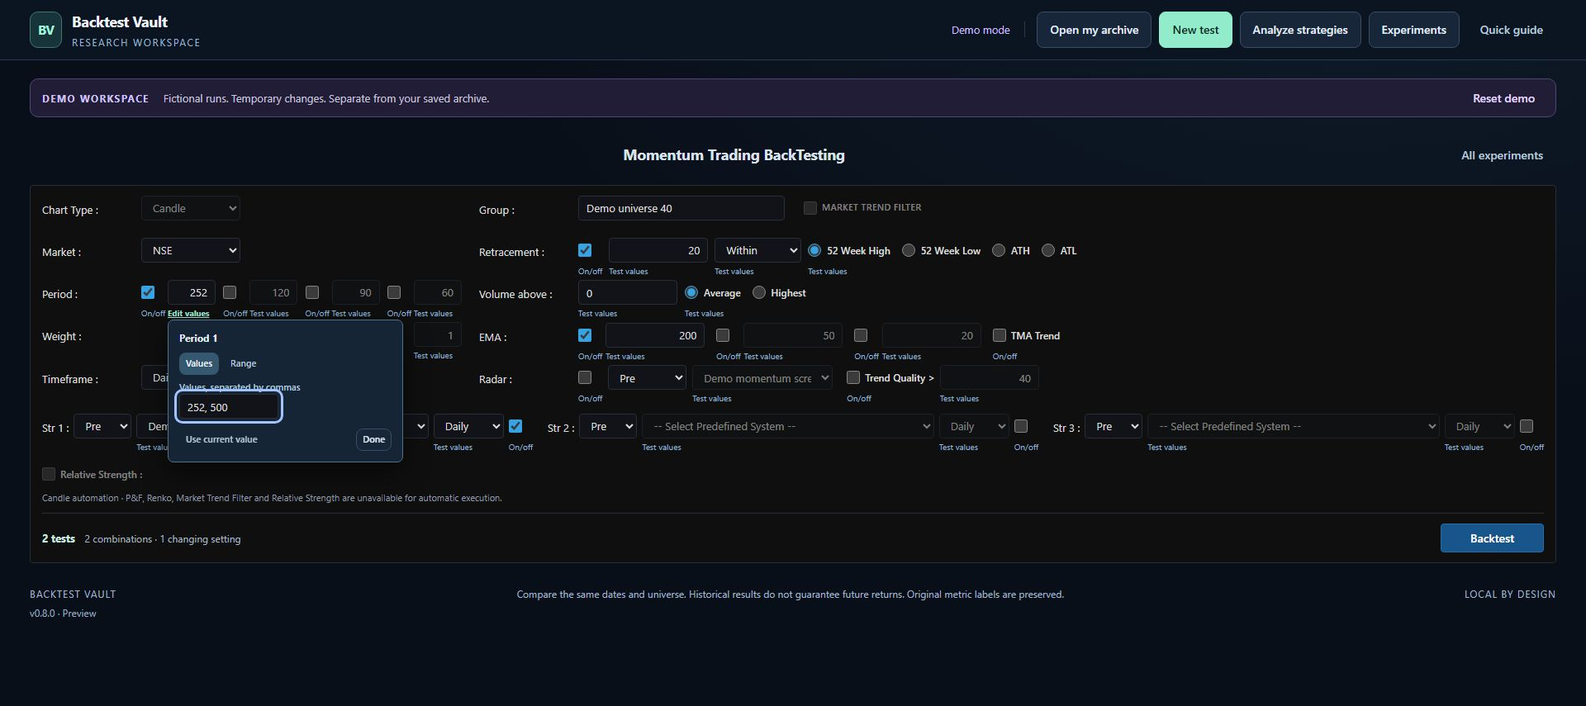
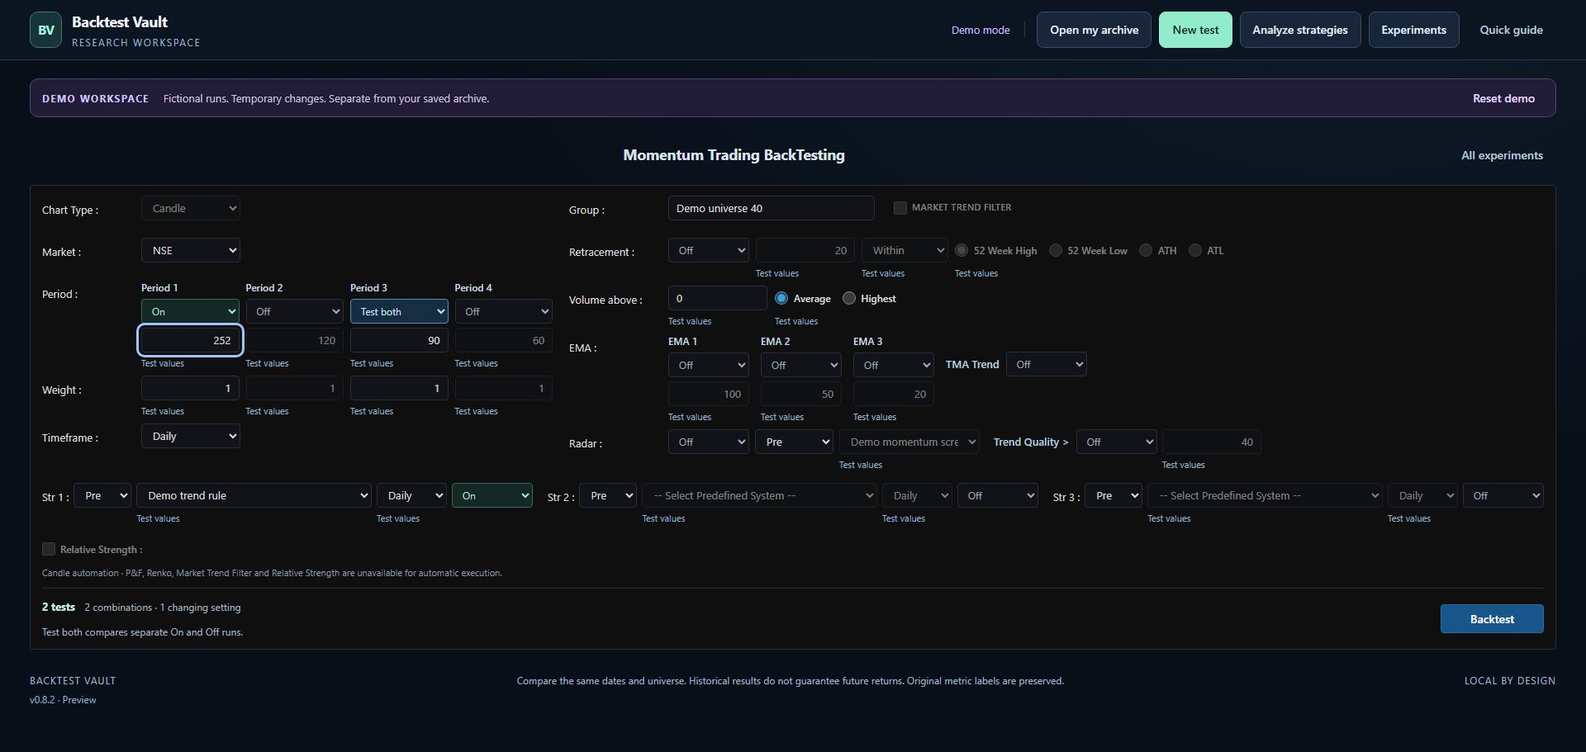
Simplify setup states with Off On and Test both choices

diff --git a/dist/experiments-ui.js b/dist/experiments-ui.js
@@ -171,25 +171,26 @@ async function render({target,store,runs,onOpen,onExit,onNotice,table,download,b
   return {id:'preview',name:state.name,baseline:S.configToBaseline(state.config,state.template,{id:'setup-preview',name:state.name,demo:store.demo}),dimensions:state.dimensions.map(d=>({key:d.key,values:d.values})),mode:state.mode,budget:state.budget,objective:state.objective,ceiling:state.ceiling,minTrades:state.minTrades,seed:state.seed,timeoutMinutes:state.timeout};
  }
 
+ const setupEnabled=(state,key)=>!key||!!state.config[key]||state.dimensions.some(d=>d.key===key&&Array.isArray(d.values)&&d.values.includes(true));
  function workbenchChanged(state){
   for(const item of state.controls||[]){
    if(!item.control.isConnected)continue;
    const f=item.field,inspect=f.key.endsWith('.chart')&&f.options?.length>1;
-   item.control.disabled=!!(f.disabled&&!inspect)||!!(f.enabledBy&&!state.config[f.enabledBy]);
+   item.control.disabled=!!(f.disabled&&!inspect)||!setupEnabled(state,f.enabledBy);
   }
   for(const update of state.countUpdates||[])update();
  }
 
  function variationEditor(state,field){
-  const candidate=state.catalog.find(f=>f.key===field.key);if(!candidate||candidate.type==='enum'&&!candidate.options.length)return null;
+  const candidate=state.catalog.find(f=>f.key===field.key);if(!candidate||candidate.type==='boolean'||candidate.type==='enum'&&!candidate.options.length)return null;
   const holder=el('div',undefined,'source-variation'),toggle=button('Test values',()=>{},'source-test-values'),editor=el('div',undefined,'source-values-editor');holder.dataset.variationFor=field.key;editor.dataset.editorFor=field.key;editor.hidden=state.editorOpen!==field.key;holder.append(toggle,editor);
   const dimension=()=>state.dimensions.find(d=>d.key===field.key);
-  const summary=()=>{const d=dimension();toggle.textContent=d?'Edit values':candidate.type==='boolean'?'On/off':'Test values';toggle.setAttribute('aria-label','Test values for '+field.label);toggle.classList.toggle('is-active',!!d);toggle.setAttribute('aria-expanded',String(!editor.hidden));};
+  const summary=()=>{const d=dimension();toggle.textContent=d?'Edit values':'Test values';toggle.setAttribute('aria-label','Test values for '+field.label);toggle.classList.toggle('is-active',!!d);toggle.setAttribute('aria-expanded',String(!editor.hidden));};
   function draw(){
    const d=dimension();editor.replaceChildren();if(!d)return;editor.append(el('strong',field.label));
    const current=state.config[field.key];
-   if(candidate.type==='enum'||candidate.type==='boolean'){
-    const choices=candidate.type==='boolean'?[{value:true,label:'On'},{value:false,label:'Off'}]:candidate.options;
+   if(candidate.type==='enum'){
+    const choices=candidate.options;
     const list=el('div',undefined,'source-value-choices');
     for(const option of choices){const checkbox=input('','checkbox');checkbox.checked=Array.isArray(d.values)&&d.values.includes(option.value);checkbox.onchange=()=>{const values=Array.isArray(d.values)?d.values:[];d.values=checkbox.checked?[...values,option.value]:values.filter(v=>v!==option.value);workbenchChanged(state);};list.append(label(option.label,checkbox));}editor.append(list);
    }else{
@@ -205,7 +206,7 @@ async function render({target,store,runs,onOpen,onExit,onNotice,table,download,b
    const actions=el('div',undefined,'source-value-actions');actions.append(button('Use current value',()=>{state.dimensions=state.dimensions.filter(d=>d.key!==field.key);state.editorOpen=null;editor.hidden=true;summary();workbenchChanged(state);},'quiet'),button('Done',()=>{state.editorOpen=null;editor.hidden=true;summary();workbenchChanged(state);},'secondary'));editor.append(actions);summary();
   }
   toggle.onclick=()=>{
-   if(!dimension()){if(state.dimensions.length>=6){notice.textContent='Use at most six changing settings in one test batch.';return;}state.dimensions.push({key:field.key,values:candidate.type==='boolean'||candidate.type==='enum'?[state.config[field.key]]:String(state.config[field.key]),editorMode:'values'});}
+   if(!dimension()){if(state.dimensions.length>=6){notice.textContent='Use at most six changing settings in one test batch.';return;}state.dimensions.push({key:field.key,values:candidate.type==='enum'?[state.config[field.key]]:String(state.config[field.key]),editorMode:'values'});}
    const open=editor.hidden;for(const n of content.querySelectorAll('.source-values-editor'))n.hidden=true;state.editorOpen=open?field.key:null;editor.hidden=!open;draw();summary();workbenchChanged(state);
   };draw();summary();return holder;
  }
@@ -215,19 +216,33 @@ async function render({target,store,runs,onOpen,onExit,onNotice,table,download,b
   const caption=field.label.replace(/^Use /,'');if(showLabel&&field.type!=='boolean')wrap.append(el('span',caption,'source-control-label'));
   const line=el('div',undefined,'source-control-line');wrap.append(line);
   if(radios){
-   const options=el('div',undefined,'source-radios');for(const option of field.options||[]){const n=input(option.value,'radio');n.name='setup-'+key;n.checked=String(value)===String(option.value);n.disabled=!!field.disabled||!!option.disabled||!!(field.enabledBy&&!state.config[field.enabledBy]);n.dataset.setupField=key;n.setAttribute('aria-label',caption+' · '+option.label);n.onchange=()=>{if(n.checked){state.config[key]=n.value;workbenchChanged(state);}};state.controls.push({field,control:n});options.append(label(option.label,n));}line.append(options);
+   const options=el('div',undefined,'source-radios');for(const option of field.options||[]){const n=input(option.value,'radio');n.name='setup-'+key;n.checked=String(value)===String(option.value);n.disabled=!!field.disabled||!!option.disabled||!setupEnabled(state,field.enabledBy);n.dataset.setupField=key;n.setAttribute('aria-label',caption+' · '+option.label);n.onchange=()=>{if(n.checked){state.config[key]=n.value;workbenchChanged(state);}};state.controls.push({field,control:n});options.append(label(option.label,n));}line.append(options);
   }else{
    let control,unavailable=false;
-   if(field.type==='boolean'){control=input('','checkbox');control.checked=!!value;}
+   const stateChoice=field.type==='boolean'&&!field.disabled;
+   const variableState=stateChoice&&variation&&state.catalog.some(f=>f.key===key&&f.type==='boolean');
+   const selectedState=()=>state.dimensions.some(d=>d.key===key&&Array.isArray(d.values)&&d.values.includes(true)&&d.values.includes(false))?'both':String(!!state.config[key]);
+   if(stateChoice){control=select([['false','Off'],['true','On'],...(variableState?[['both','Test both']]:[])]);control.classList.add('source-state-select');control.value=selectedState();control.dataset.mode=control.value;}
+   else if(field.type==='boolean'){control=input('','checkbox');control.checked=!!value;}
    else if(field.type==='select'){
     const options=field.options||[];control=select(options.map(o=>[String(o.value),o.label||String(o.value)]));options.forEach((o,i)=>control.options[i].disabled=!!o.disabled);
     if(!options.length){const empty=el('option','No choices available');empty.value='';empty.disabled=true;control.append(empty);}
     if(!options.some(o=>String(o.value)===String(value))&&String(value??'')){const missing=el('option',String(value)+' · unavailable');missing.value=String(value);missing.disabled=true;control.append(missing);unavailable=true;}control.value=String(value??'');
    }else{control=input(value??'',field.type==='number'?'number':field.type==='date'?'date':'text');if(field.min!==undefined)control.min=field.min;if(field.max!==undefined)control.max=field.max;if(field.type==='number')control.step=field.integer?'1':'any';}
-   control.dataset.setupField=key;control.setAttribute('aria-label',caption);control.title=field.reason||field.help||caption;if(key==='momentum.group')control.placeholder='Search Group';control.required=!field.disabled&&field.type!=='boolean';const inspectChart=key.endsWith('.chart')&&field.options?.length>1;control.disabled=!!(field.disabled&&!inspectChart)||!!(field.enabledBy&&!state.config[field.enabledBy]);
-   if(field.type==='boolean'){const l=label(text,control);l.className='source-check';line.append(l);}else line.append(control);
-   if(unavailable){wrap.classList.add('setup-unavailable');control.setAttribute('aria-invalid','true');line.title='This choice is no longer available. Select another option.';if(field.rule&&!field.options?.length)wrap.append(button('Clear unavailable choice',()=>{state.config[key]='';if(field.enabledBy)state.config[field.enabledBy]=false;setupPage();},'quiet'));}
-   const update=()=>{state.config[key]=control.type==='checkbox'?control.checked:control.value;workbenchChanged(state);};
+   control.dataset.setupField=key;control.setAttribute('aria-label',caption);control.title=field.reason||field.help||(variableState?caption+': On uses it, Off skips it, Test both compares separate On and Off runs.':caption);if(key==='momentum.group')control.placeholder='Search Group';control.required=!field.disabled&&field.type!=='boolean';const inspectChart=key.endsWith('.chart')&&field.options?.length>1;control.disabled=!!(field.disabled&&!inspectChart)||!setupEnabled(state,field.enabledBy);
+   if(field.type==='boolean'&&(!stateChoice||text)){const l=label(text,control);l.className=stateChoice?'source-state-label':'source-check';line.append(l);}else line.append(control);
+   if(unavailable){wrap.classList.add('setup-unavailable');control.setAttribute('aria-invalid','true');line.title='This choice is no longer available. Select another option.';if(field.rule&&!field.options?.length)wrap.append(button('Clear unavailable choice',()=>{state.config[key]='';if(field.enabledBy)state.config[field.enabledBy]=false;state.dimensions=state.dimensions.filter(d=>d.key!==key&&d.key!==field.enabledBy);setupPage();},'quiet'));}
+   const update=()=>{
+    if(stateChoice){
+     if(control.value==='both'){
+      if(!variableState)return;
+      if(!state.dimensions.some(d=>d.key===key)){if(state.dimensions.length>=6){notice.textContent='Use at most six changing settings in one test batch.';control.value=selectedState();return;}state.dimensions.push({key,values:[true,false]});}
+      else state.dimensions.find(d=>d.key===key).values=[true,false];
+     }else{state.config[key]=control.value==='true';state.dimensions=state.dimensions.filter(d=>d.key!==key);}
+     control.dataset.mode=control.value;
+    }else state.config[key]=control.type==='checkbox'?control.checked:control.value;
+    workbenchChanged(state);
+   };
    control.addEventListener('input',update);control.addEventListener('change',()=>{update();if(field.refreshOnChange&&extension)void action(()=>refreshSetupChoices({[field.stage]:{[field.index]:control.value}}));});state.controls.push({field,control});
   }
   if(field.disabled)wrap.classList.add('source-fixed');if(variation){const editor=variationEditor(state,field);if(editor)wrap.append(editor);}return wrap;
@@ -240,17 +255,17 @@ async function render({target,store,runs,onOpen,onExit,onNotice,table,download,b
   const field=(key,opts)=>sourceField(state,'momentum.'+key,opts);
   const row=(title,children,cls='')=>{const n=el('div',undefined,'source-row '+cls);n.append(el('span',title,'source-row-label'));const values=el('div',undefined,'source-row-controls');values.append(...children);n.append(values);return n;};
   left.append(row('Chart Type :',[field('chart',{variation:false})]),row('Market :',[field('market',{variation:false})]));
-  const periods=[],weights=[];for(let i=1;i<=4;i++){const pair=el('div',undefined,'source-period-pair');pair.append(field('period.'+i+'.enabled'),field('period.'+i));periods.push(pair);weights.push(field('period.'+i+'.weight'));}
+  const periods=[],weights=[];for(let i=1;i<=4;i++){const pair=el('div',undefined,'source-period-pair');pair.append(el('span','Period '+i,'source-pair-heading'),field('period.'+i+'.enabled'),field('period.'+i));periods.push(pair);weights.push(field('period.'+i+'.weight'));}
   left.append(row('Period :',periods,'source-period-row'),row('Weight :',weights,'source-weight-row'),row('Timeframe :',[field('timeframe',{variation:false})]));
   right.append(row('Group :',[field('group',{variation:false}),field('market-filter',{text:'MARKET TREND FILTER',variation:false})],'source-group-row'));
   right.append(row('Retracement :',[field('retracement.enabled'),field('retracement'),field('retracement.mode'),field('retracement.reference',{radios:true})],'source-retracement-row'));
   right.append(row('Volume above :',[field('volume'),field('volume.reference',{radios:true})],'source-volume-row'));
-  const emas=[];for(let i=1;i<=3;i++){const pair=el('div',undefined,'source-period-pair');pair.append(field('ema.'+i+'.enabled'),field('ema.'+i));emas.push(pair);}emas.push(field('tma',{text:'TMA Trend'}));right.append(row('EMA :',emas,'source-ema-row'));
+  const emas=[];for(let i=1;i<=3;i++){const pair=el('div',undefined,'source-period-pair');pair.append(el('span','EMA '+i,'source-pair-heading'),field('ema.'+i+'.enabled'),field('ema.'+i));emas.push(pair);}emas.push(field('tma',{text:'TMA Trend'}));right.append(row('EMA :',emas,'source-ema-row'));
   const quality=el('div',undefined,'source-quality');quality.append(field('trend-quality.enabled',{text:'Trend Quality >'}),field('trend-quality'));right.append(row('Radar :',[field('radar.enabled'),field('radar.source',{variation:false}),field('radar.rule'),quality],'source-radar-row'));
   const strategies=el('div',undefined,'source-strategies');for(let i=1;i<=3;i++){const n=el('section',undefined,'source-strategy');n.setAttribute('aria-label','Strategy '+i);n.append(el('span','Str '+i+' :','source-row-label'),field('strategy.'+i+'.source',{variation:false}),field('strategy.'+i+'.rule'),field('strategy.'+i+'.timeframe'),field('strategy.'+i+'.enabled'));strategies.append(n);}form.append(strategies,field('rs',{text:'Relative Strength :',variation:false}));
   const limitations=el('p','Candle automation · P&F, Renko, Market Trend Filter and Relative Strength are unavailable for automatic execution.','source-availability');form.append(limitations);
   const bar=el('div',undefined,'source-count-bar'),count=el('div',undefined,'source-combination-count'),backtest=button('Backtest',()=>openBacktest(state),'primary');bar.append(count,backtest);shell.append(bar);
-  const update=()=>{try{const dimensions=state.dimensions.map(d=>{const field=state.catalog.find(f=>f.key===d.key);if(!field)throw Error('A changing setting is unavailable. Review its test values.');return {...field,values:E.values(d.values,field)};}),combinations=E.combos(dimensions).length,planned=state.mode==='grid'?combinations:Math.min(combinations,state.budget);count.replaceChildren(el('strong',planned+' '+(planned===1?'test':'tests')),el('span',dimensions.length?combinations+' '+(combinations===1?'combination':'combinations')+' · '+dimensions.length+' changing '+(dimensions.length===1?'setting':'settings'):'Current settings'));}catch(error){count.replaceChildren(el('strong','Review test values'),el('span',error.message));}backtest.disabled=state.connecting;};state.countUpdates.push(update);update();
+  const update=()=>{try{const dimensions=state.dimensions.map(d=>{const field=state.catalog.find(f=>f.key===d.key);if(!field)throw Error('A changing setting is unavailable. Review its test values.');return {...field,values:E.values(d.values,field)};}),combinations=E.combos(dimensions).length,planned=state.mode==='grid'?combinations:Math.min(combinations,state.budget);count.replaceChildren(el('strong',planned+' '+(planned===1?'test':'tests')),el('span',dimensions.length?combinations+' '+(combinations===1?'combination':'combinations')+' · '+dimensions.length+' changing '+(dimensions.length===1?'setting':'settings'):'Current settings'));if(dimensions.some(d=>d.type==='boolean'&&d.values.length===2))count.append(el('span','Test both compares separate On and Off runs.','source-both-note'));}catch(error){count.replaceChildren(el('strong','Review test values'),el('span',error.message));}backtest.disabled=state.connecting;};state.countUpdates.push(update);update();
   if(state.reviewOpen)openBacktest(state);
  }
 
@@ -264,7 +279,7 @@ async function render({target,store,runs,onOpen,onExit,onNotice,table,download,b
   const body=el('div',undefined,'source-dialog-body'),columns=el('div',undefined,'source-review-columns'),execution=el('section'),portfolio=el('section');execution.append(el('h4','Backtest settings'));portfolio.append(el('h4','Portfolio Backtesting'));columns.append(execution,portfolio);form.append(body);body.append(columns);
   const field=(key,opts={})=>sourceField(state,key,{showLabel:true,variation:key.startsWith('execution.'),...opts});
   const pair=(keys,className='')=>{const grid=el('div',undefined,'source-review-fields '+className);grid.append(...keys.map(key=>field(key)));return grid;};
-  const toggleRow=(key,value,title)=>{const row=el('div',undefined,'source-review-toggle-row');row.append(field(key,{showLabel:false,text:title}),field(value,{showLabel:false}));return row;};
+  const toggleRow=(key,value,title)=>{const row=el('div',undefined,'source-review-toggle-row');row.append(el('span',title,'source-review-toggle-label'),field(key,{showLabel:false}),field(value,{showLabel:false}));return row;};
   execution.append(pair(['execution.from','execution.to'],'source-date-pair'),pair(['execution.rank','execution.chart','execution.selection'],'source-execution-options'),toggleRow('execution.target.enabled','execution.target','Profit target (%)'),toggleRow('execution.stop.enabled','execution.stop','Stop loss (%)'));
   const exit=el('div',undefined,'source-review-exit-row');exit.append(field('execution.exit.enabled',{showLabel:false,text:'Exit strategy'}),field('execution.exit.source',{showLabel:false}),field('execution.exit.rule',{showLabel:false}));execution.append(exit);
   portfolio.append(field('portfolio.enabled',{showLabel:false,text:'Portfolio testing'}),pair(['portfolio.allocation'],'source-allocation-row'),pair(['portfolio.capital','portfolio.max-open']),toggleRow('portfolio.daily-limit.enabled','portfolio.daily-limit','Limit new stocks per day'));

diff --git a/dist/index.html b/dist/index.html
@@ -10,7 +10,7 @@
 <section class="filters" aria-label="Filter and sort backtests"><label>Find a run<input id="search" type="search" placeholder="Search names, settings, notes…"></label><label>Period & universe<select id="cohort"><option value="">All periods & universes</option></select></label><label>Sort by<select id="sort"><option value="savedAt">Recently saved</option><option value="returns">Gross return · highest</option><option value="drawdown">Max drawdown · lowest</option><option value="growth">CAGR / annualized · highest</option><option value="trades">Trade count · highest</option></select></label><label>Max drawdown (%)<input id="risk" type="number" min="0" step="0.5" placeholder="Any"></label><button id="clear-filters" class="quiet">Clear filters</button></section>
 <div class="workspace"><section class="library" aria-label="Saved runs"><div class="section-top"><div><h2>Saved runs</h2><p id="count" class="count" aria-live="polite">Loading your library…</p></div><span class="mini">Select to compare</span></div><div id="list"></div><div class="selection-bar"><button id="compare" class="primary" disabled>Compare selected (0)</button><button id="clear-selection" class="quiet" disabled>Clear</button><span id="selection-note" class="mini">Select two or more runs.</span></div></section>
 <section id="detail" class="detail" aria-label="Run details" tabindex="-1"><div class="empty"><p class="eyebrow">YOUR FIRST RUN STARTS HERE</p><h2>Start your next test<br>right here.</h2><p>Choose your strategy, dates and portfolio settings in Vault. Run one test or compare variations; RZone calculates and Vault saves the results.</p><div class="empty-actions"><button id="empty-new-test" class="primary">Start a new test</button><a href="?demo=1" class="button secondary">Explore the demo</a><button id="empty-import" class="secondary">Import a backup</button></div><p class="mini">A backup is a complete JSON archive. It stays on your device.</p></div></section></div>
-<footer><span>BACKTEST VAULT <span class="version">v0.8.1 · Preview</span></span><p>Compare the same dates and universe. Historical results do not guarantee future returns. Original metric labels are preserved.</p><span>LOCAL BY DESIGN</span></footer>
+<footer><span>BACKTEST VAULT <span class="version">v0.8.2 · Preview</span></span><p>Compare the same dates and universe. Historical results do not guarantee future returns. Original metric labels are preserved.</p><span>LOCAL BY DESIGN</span></footer>
 </main>
 <dialog id="guide" aria-labelledby="guide-title"><div class="dialog-head"><p class="eyebrow">QUICK GUIDE</p><button id="close-guide" class="quiet" aria-label="Close quick guide">Close</button></div><h2 id="guide-title">From backtest to evidence.</h2><ol class="guide-steps"><li><strong>Start in Vault</strong><p>Choose New test. Connect your signed-in RZone tab, then set your strategy, test dates and portfolio here. Refresh choices to read the available RZone dropdowns.</p></li><li><strong>Run one test or try variations</strong><p>Review your settings and choose Run. Keep RZone open while Vault applies the setup, runs both backtests and saves each result automatically.</p></li><li><strong>Compare like with like</strong><p>Use the same period and universe. Select at least two runs to compare results and changed settings.</p></li><li><strong>Keep an independent backup</strong><p>Back up all saves a JSON file. Import runs combines backups; matching IDs stay unchanged.</p></li></ol><p class="muted">The browser viewer has its own local library. It does not connect to extension storage. Demo mode uses temporary fictional data.</p></dialog>
 <script src="core.js"></script><script src="demo.js"></script><script src="storage.js"></script><script src="presentation.js"></script><script src="intelligence.js"></script><script src="intelligence-ui.js"></script><script src="setup.js"></script><script src="experiments.js"></script><script src="experiments-ui.js"></script><script src="dashboard.js"></script></body></html>

diff --git a/dist/experiments.css b/dist/experiments.css
@@ -178,3 +178,45 @@ body:has(.has-workbench) main{max-width:none}
 .source-period-row .source-period-pair{display:grid;grid-template-columns:28px minmax(0,1fr);gap:4px}
 .source-weight-row .source-field{padding-left:32px}
 @media(max-width:560px){.source-workbench .source-field input[data-setup-field="momentum.group"]:not([type=checkbox]):not([type=radio]){width:100%}}
+
+/* One explicit state per setting; Test both is a batch choice, never two live states. */
+.source-main-grid{grid-template-columns:minmax(510px,34%) minmax(0,1fr)}
+.source-period-row .source-period-pair,.source-ema-row .source-period-pair{display:flex;flex-direction:column;align-items:stretch;gap:5px}
+.source-pair-heading{font-size:12px;font-weight:600;color:#c5d7e5;line-height:1.5}
+.source-workbench .source-period-row .source-field input[type=number],.source-workbench .source-weight-row .source-field input[type=number],.source-workbench .source-ema-row .source-period-pair input[type=number]{width:100%;max-width:none}
+.source-weight-row .source-field{padding-left:0}
+.source-workbench .source-field .source-state-select,.setup-backtest-dialog .source-field .source-state-select{width:98px;cursor:pointer;padding-left:8px;font-size:12px}
+.source-period-row .source-field .source-state-select{width:100%}
+.source-state-select[data-mode=true]{border-color:#3b675c!important;color:#a9ead4!important;background:#142824!important}
+.source-state-select[data-mode=false]{color:#a4b0bc!important}
+.source-state-select[data-mode=both]{border-color:#578eb2!important;color:#c7e7ff!important;background:#172e42!important}
+.source-state-label{display:flex;align-items:center;gap:8px;color:#ddd;font-size:12px;white-space:nowrap}
+.source-state-label select{flex-shrink:0}
+.source-ema-row .source-period-pair{width:98px}
+.source-ema-row .source-row-controls>.source-field{padding-top:22px}
+.source-quality{align-items:flex-start;flex-wrap:wrap}
+.source-strategy{flex-wrap:wrap}
+.source-strategy>.source-field:last-child{flex-shrink:0}
+.source-combination-count{flex-wrap:wrap}
+.source-both-note{flex-basis:100%;color:#b1cfe4;font-size:12px}
+.source-workbench .source-test-values,.setup-backtest-dialog .source-test-values{min-height:25px;font-size:11px;padding:4px 0}
+.source-period-pair .source-test-values{white-space:nowrap}
+.source-review-toggle-row .source-state-label,.source-review-exit-row .source-state-label{align-items:flex-start;flex-direction:column;gap:6px}
+.source-review-toggle-row{align-items:start;row-gap:6px}
+.source-review-toggle-label{grid-column:1/-1;font-size:12px;color:#b9ccde}
+@media(max-width:1100px){
+ .source-main-grid{grid-template-columns:1fr}
+ .source-main-left{max-width:620px}
+ .source-strategies{grid-template-columns:1fr;gap:14px}
+ .source-strategy{display:grid;grid-template-columns:44px 90px minmax(100px,1fr) 90px 98px;gap:8px}
+}
+@media(max-width:560px){
+ .source-pair-heading{font-size:11px}
+ .source-period-row .source-field .source-state-select{font-size:11px;padding:4px}
+ .source-strategy{grid-template-columns:42px 70px minmax(90px,1fr) 85px;gap:6px}
+ .source-strategy>.source-field:last-child{grid-column:2/4}
+ .source-strategy .source-row-label{padding-top:10px}
+ .source-workbench .source-test-values,.setup-backtest-dialog .source-test-values{min-height:32px;font-size:10px}
+ .source-review-exit-row{grid-template-columns:102px 65px minmax(0,1fr)}
+ .source-count-bar{align-items:center}
+}

diff --git a/dist/capture.js b/dist/capture.js
@@ -34,7 +34,7 @@
   function snapshot(container) {return {at:now(), fields:fields(container)};}
   function status(message) {statusEl.textContent = message;}
   const host = document.createElement('div'); host.id = 'definedge-backtest-vault';
-  host.dataset.version = '0.8.1';
+  host.dataset.version = '0.8.2';
   host.style.cssText = 'position:fixed;right:16px;bottom:14px;z-index:2147483646;';
   const shadow = host.attachShadow({mode:'closed'});
   shadow.innerHTML = `<style>:host{font:14px system-ui;color:#f3f8fc}.bar{background:#112639;border:1px solid #34536e;border-radius:12px;padding:10px;box-shadow:0 6px 26px #0007;max-width:390px}button{font:600 14px system-ui;border:0;border-radius:7px;padding:9px 12px;cursor:pointer;background:#52d8ca;color:#072923;margin-right:6px}button.secondary{background:#2b455b;color:white}button:disabled{opacity:.5;cursor:wait}p{margin:8px 2px 0;line-height:1.35;font-size:13px}</style><div class="bar"><button id="save">Save backtest</button><button class="secondary" id="open">Open vault</button><p id="status" role="status">Recording settings when you run a backtest.</p></div>`;

diff --git a/README.md b/README.md
@@ -5,7 +5,7 @@
 A local Chrome extension and research workspace for Definedge momentum and portfolio backtests. Start in Vault: choose your setup, run one test or several variations, and compare the saved evidence.
 
 [![Local checks](https://github.com/mamamiya7/backtest-vault/actions/workflows/checks.yml/badge.svg)](https://github.com/mamamiya7/backtest-vault/actions/workflows/checks.yml)
-**v0.8.1 preview** · Chrome · Local storage · MIT · No cloud account
+**v0.8.2 preview** · Chrome · Local storage · MIT · No cloud account
 
 ![Visual strategy leaderboard with a leading run, ranking table and return-versus-drawdown plot; all data is fictional](docs/images/08-leaderboard.png)
 
@@ -33,7 +33,7 @@ flowchart LR
 
 1. **Connect:** keep RZone signed in, choose its tab, then click **Connect RZone**. Connecting reads choices; it does not run a backtest.
 2. **Set up:** work in one form arranged like RZone, with periods and weights together, filters alongside them and Strategy 1–3 below. Enter the exact group name; RZone must confirm its autocomplete selection before execution.
-3. **Add variations beside a setting:** Period 1 = `252,500` means two tests. A numeric range also needs a step. Switches can test On and Off; eligible rule menus can test selected choices from the loaded source catalogue.
+3. **Add variations beside a setting:** Period 1 = `252,500` means two tests. A numeric range also needs a step. Choose **Off** to skip a period or filter, **On** to use it, or **Test both** for separate On and Off runs. Eligible rule menus can test selected choices from the loaded source catalogue.
 4. **Backtest:** review dates, exits, allocation, capital, position limits and the combination count, then choose **Run … tests**. Leave the range controls unused to run the current setup once.
 5. **Results:** Vault saves each report automatically. Open a saved trial or compare the batch in **Decision desk**. Exporting is an optional backup, not a step required to finish a run.
 
@@ -61,7 +61,7 @@ flowchart LR
 
 [Open the fictional experiment demo](http://127.0.0.1:8767/?demo=1&view=experiments) or read the [full workflow and recovery guide](docs/EXPERIMENTS.md).
 
-| Available in 0.8.1 preview | Acceptance boundary |
+| Available in 0.8.2 preview | Acceptance boundary |
 | --- | --- |
 | Vault-first Candle/Price setup, source dropdown refresh and single or multiple tests | New flow covered by local checks; live acceptance of this full setup flow remains pending |
 | Finite plans, reproducible samples, bounded adaptive neighborhood search | Local planner and isolated simulation tested |
@@ -354,7 +354,7 @@ A pending recovery exists only in that tab's memory. Refreshing or closing the t
 
 **Validation evidence:** all nine local test suites passed for v0.7.3. They cover capture linkage, failed submissions, all trade pages, SVG sanitation, CSV formula safety, imports, formatting, CAGR fallback, comparisons, benchmark checks and demo isolation.
 
-On 2026-09-16, a real three-trial Candle experiment completed through the installed extension's **v0.7.3 saved-baseline flow**. Its exported plan, distinct submission receipts, source statistics, trade counts, six charts per run and save-before-next-trial sequence were verified. Two settings were also calculated independently for comparison. This establishes the tested older flow; it does not validate v0.8.1's new full setup, every source layout or P&F/Renko execution. Private reports remain outside this repository.
+On 2026-09-16, a real three-trial Candle experiment completed through the installed extension's **v0.7.3 saved-baseline flow**. Its exported plan, distinct submission receipts, source statistics, trade counts, six charts per run and save-before-next-trial sequence were verified. Two settings were also calculated independently for comparison. This establishes the tested older flow; it does not validate v0.8.2's new full setup, every source layout or P&F/Renko execution. Private reports remain outside this repository.
 
 Five exported live Candle runs previously matched their source evidence. Three P&F and three Renko runs were saved live; exported-archive comparison for that batch is pending. The user confirmed the updated saver works. Earlier dashboard revisions were checked in a standalone Chrome preview; the installed extension dashboard was not directly inspected by automation.
 
@@ -404,7 +404,7 @@ Read [Contributing](CONTRIBUTING.md), [Security](SECURITY.md), [UI audit](docs/U
 npm run package:public
 ```
 
-This copies an explicit public-file allowlist into `releases/backtest-vault-0.8.1-public/` and writes a hash manifest. Private archives, handoffs, local hosting metadata and dependencies are excluded. An existing package is left intact.
+This copies an explicit public-file allowlist into `releases/backtest-vault-0.8.2-public/` and writes a hash manifest. Private archives, handoffs, local hosting metadata and dependencies are excluded. An existing package is left intact.
 
 ## License and affiliation
 

diff --git a/docs/EXPERIMENTS.md b/docs/EXPERIMENTS.md
@@ -1,6 +1,6 @@
 # Experiments and decision intelligence
 
-Version 0.8.1 preview lets you **start a new test in Vault without first saving a run in RZone**. Choose the strategy, backtest and portfolio settings, then run one test or a finite set of variations. RZone performs the calculations; Vault saves and compares the evidence. The new setup flow still needs its own live acceptance. The preceding v0.7.3 saved-baseline flow passed a real three-trial Candle batch on 2026-09-16.
+Version 0.8.2 preview lets you **start a new test in Vault without first saving a run in RZone**. Choose the strategy, backtest and portfolio settings, then run one test or a finite set of variations. RZone performs the calculations; Vault saves and compares the evidence. The new setup flow still needs its own live acceptance. The preceding v0.7.3 saved-baseline flow passed a real three-trial Candle batch on 2026-09-16.
 
 ## Trader workflow
 
@@ -54,6 +54,16 @@ The localhost viewer can inspect archives and prepare/export saved-run plans. It
 Vault asks registered source tabs for their current readiness instead of treating a delayed timer as a missing tab. It checks again before Start and wakes the chosen runner. A disconnected selection stays visible, with Start disabled; Vault never silently switches it to another tab. Keep Chrome, RZone and the computer running. Source execution can slow or stop if Chrome suspends the page. These readiness checks do not renew an active trial's lease or authorize replay.
 
 Connecting shows reading progress in RZone's Vault bar. The dashboard bounds an unanswered connection request to 70 seconds while active, then displays an error beside Connect for a deliberate retry. Late replies do not replace newer drafts. Choice-refresh errors keep the form and your entries available. Connection attempts only read setup controls; they do not submit calculations.
+
+Each eligible checkbox setting has one state selector in Vault:
+
+| Choice | What the batch uses |
+|---|---|
+| **Off** | Skip that period or filter in every run. |
+| **On** | Include it in every run. |
+| **Test both** | Create separate runs with it On and Off. |
+
+For example, Period 3 at **90**, with **Test both**, compares including and excluding that 90-bar period. **Test values** changes the numbers themselves, such as `90,120`. Combining two numbers with Test both creates four planned combinations. Other active periods and exits must still make every planned combination valid.
 
 ## Setup choices and variations
 
@@ -142,7 +152,7 @@ Open `?demo=1&view=experiments`, choose **Start a new test**, and explore the sa
 
 Automated checks cover grid/sample bounds, malformed plans, fixed-control drift, worker restarts, concurrent claims, uncertain submissions, failed saves, staged validation, CAGR-only eligibility, a three-trial full Candle DOM flow, complete backup/import and demo isolation. These are simulated tests, not proof of the installed extension operating the live service.
 
-Live acceptance on 2026-09-16 separately verified three sequential Candle period trials through the **v0.7.3 saved-baseline flow** in the installed extension. The user initiated the batch and exported its records; source operation and capture proceeded automatically. Export verification covered the approved values and fixed settings, unique strategy/portfolio submission IDs, ordered source lifecycle timestamps, complete trade counts, six chart snapshots per run and acknowledged saves before the next trial. Source metrics matched live observations and two independent manual reference calculations. The installed dashboard itself was not directly inspected by automation. **This does not establish live acceptance for v0.8.1's new full-setup and dropdown-refresh flow.**
+Live acceptance on 2026-09-16 separately verified three sequential Candle period trials through the **v0.7.3 saved-baseline flow** in the installed extension. The user initiated the batch and exported its records; source operation and capture proceeded automatically. Export verification covered the approved values and fixed settings, unique strategy/portfolio submission IDs, ordered source lifecycle timestamps, complete trade counts, six chart snapshots per run and acknowledged saves before the next trial. Source metrics matched live observations and two independent manual reference calculations. The installed dashboard itself was not directly inspected by automation. **This does not establish live acceptance for v0.8.2's new full-setup and dropdown-refresh flow.**
 
 ## Remaining delivery plan
 

diff --git a/docs/LIMITATIONS.md b/docs/LIMITATIONS.md
@@ -1,7 +1,7 @@
 # Known limitations
 
 - Preview release; not listed in the Chrome Web Store.
-- Experiments includes a Candle DOM runner, finite/sample/adaptive planner and durable journal. New test in v0.8.1 preview configures a complete Candle/Price setup in Vault and refreshes available rule menus from RZone. Live acceptance of this new flow remains pending. The v0.7.3 three-trial period sweep covered one fixed saved baseline. P&F/Renko execution, dynamic RS and Market Trend Filter remain gated. See [Experiments](EXPERIMENTS.md).
+- Experiments includes a Candle DOM runner, finite/sample/adaptive planner and durable journal. New test in v0.8.2 preview configures a complete Candle/Price setup in Vault and refreshes available rule menus from RZone. Live acceptance of this new flow remains pending. The v0.7.3 three-trial period sweep covered one fixed saved baseline. P&F/Renko execution, dynamic RS and Market Trend Filter remain gated. See [Experiments](EXPERIMENTS.md).
 - The extension depends on Definedge's visible form and report structure. Future changes may require new adapters.
 - Five exported Candle runs have been checked against live references. Three P&F and three Renko saves completed live, but their exported archive verification is pending.
 - The dashboard and v0.4.0 strategy analysis were exercised in a standalone Chrome preview. Automation could not inspect the installed extension dashboard or complete its file-picker import flow.

diff --git a/docs/INSTALL.md b/docs/INSTALL.md
@@ -10,7 +10,7 @@ Sign in to RZone as usual, then open Vault using the extension toolbar. **You do
 
 1. Choose **New test** in Vault.
 2. Select your signed-in RZone tab and click **Connect RZone**. Connecting reads the available controls without submitting a backtest. If Vault cannot find Momentum Trading BackTesting, open RZone's Research menu as prompted, then reconnect.
-3. Set up the strategy in the RZone-style form. Add **Test values** beside a setting to compare explicit values, a numeric range or available choices. Use **Refresh choices** to reread your account's current menus.
+3. Set up the strategy in the RZone-style form. Choose **Off** to skip a period/filter, **On** to include it, or **Test both** to compare separate On and Off runs. Add **Test values** beside a number or menu to compare values or a range. Use **Refresh choices** to reread your account's current menus.
 4. Click **Backtest**, review dates, exits, portfolio settings and the test count, then click **Run … tests**. Leaving all variation controls unused runs the current setup once.
 5. Leave RZone open and avoid editing its settings while the queue runs. Vault saves each completed report automatically. Use **Export experiment** for a backup of that test, or **Back up all** on the main library page.
 

diff --git a/CHANGELOG.md b/CHANGELOG.md
@@ -1,5 +1,12 @@
 # Changelog
 
+## 0.8.2 preview - 2026-09-16
+
+- Replace editable setup checkboxes and separate On/Off variation popups with one **Off / On / Test both** selector. Test both creates separate enabled and disabled trials; choosing a fixed state removes that variation.
+- Label Period 1–4 and EMA 1–3 directly, align their values and weights, and use the same state controls for filters and exits. Keep values editable when a batch includes the enabled state.
+- Preserve reviewed values and Test both choices across source refreshes. Clearing a removed rule also clears its gate and rule variations. Fixed or unsupported settings retain their existing execution limits.
+- Verify desktop and phone layouts, exact trial combinations, the six-setting limit, draft preservation and no execution before Run. The source runner is unchanged.
+
 ## 0.8.1 preview - 2026-09-16
 
 - Bound the entire Connect RZone request, including waiting for the background queue. An unanswered request now shows an error beside the connection control and allows an explicit retry; a late response cannot overwrite a newer attempt or draft.
